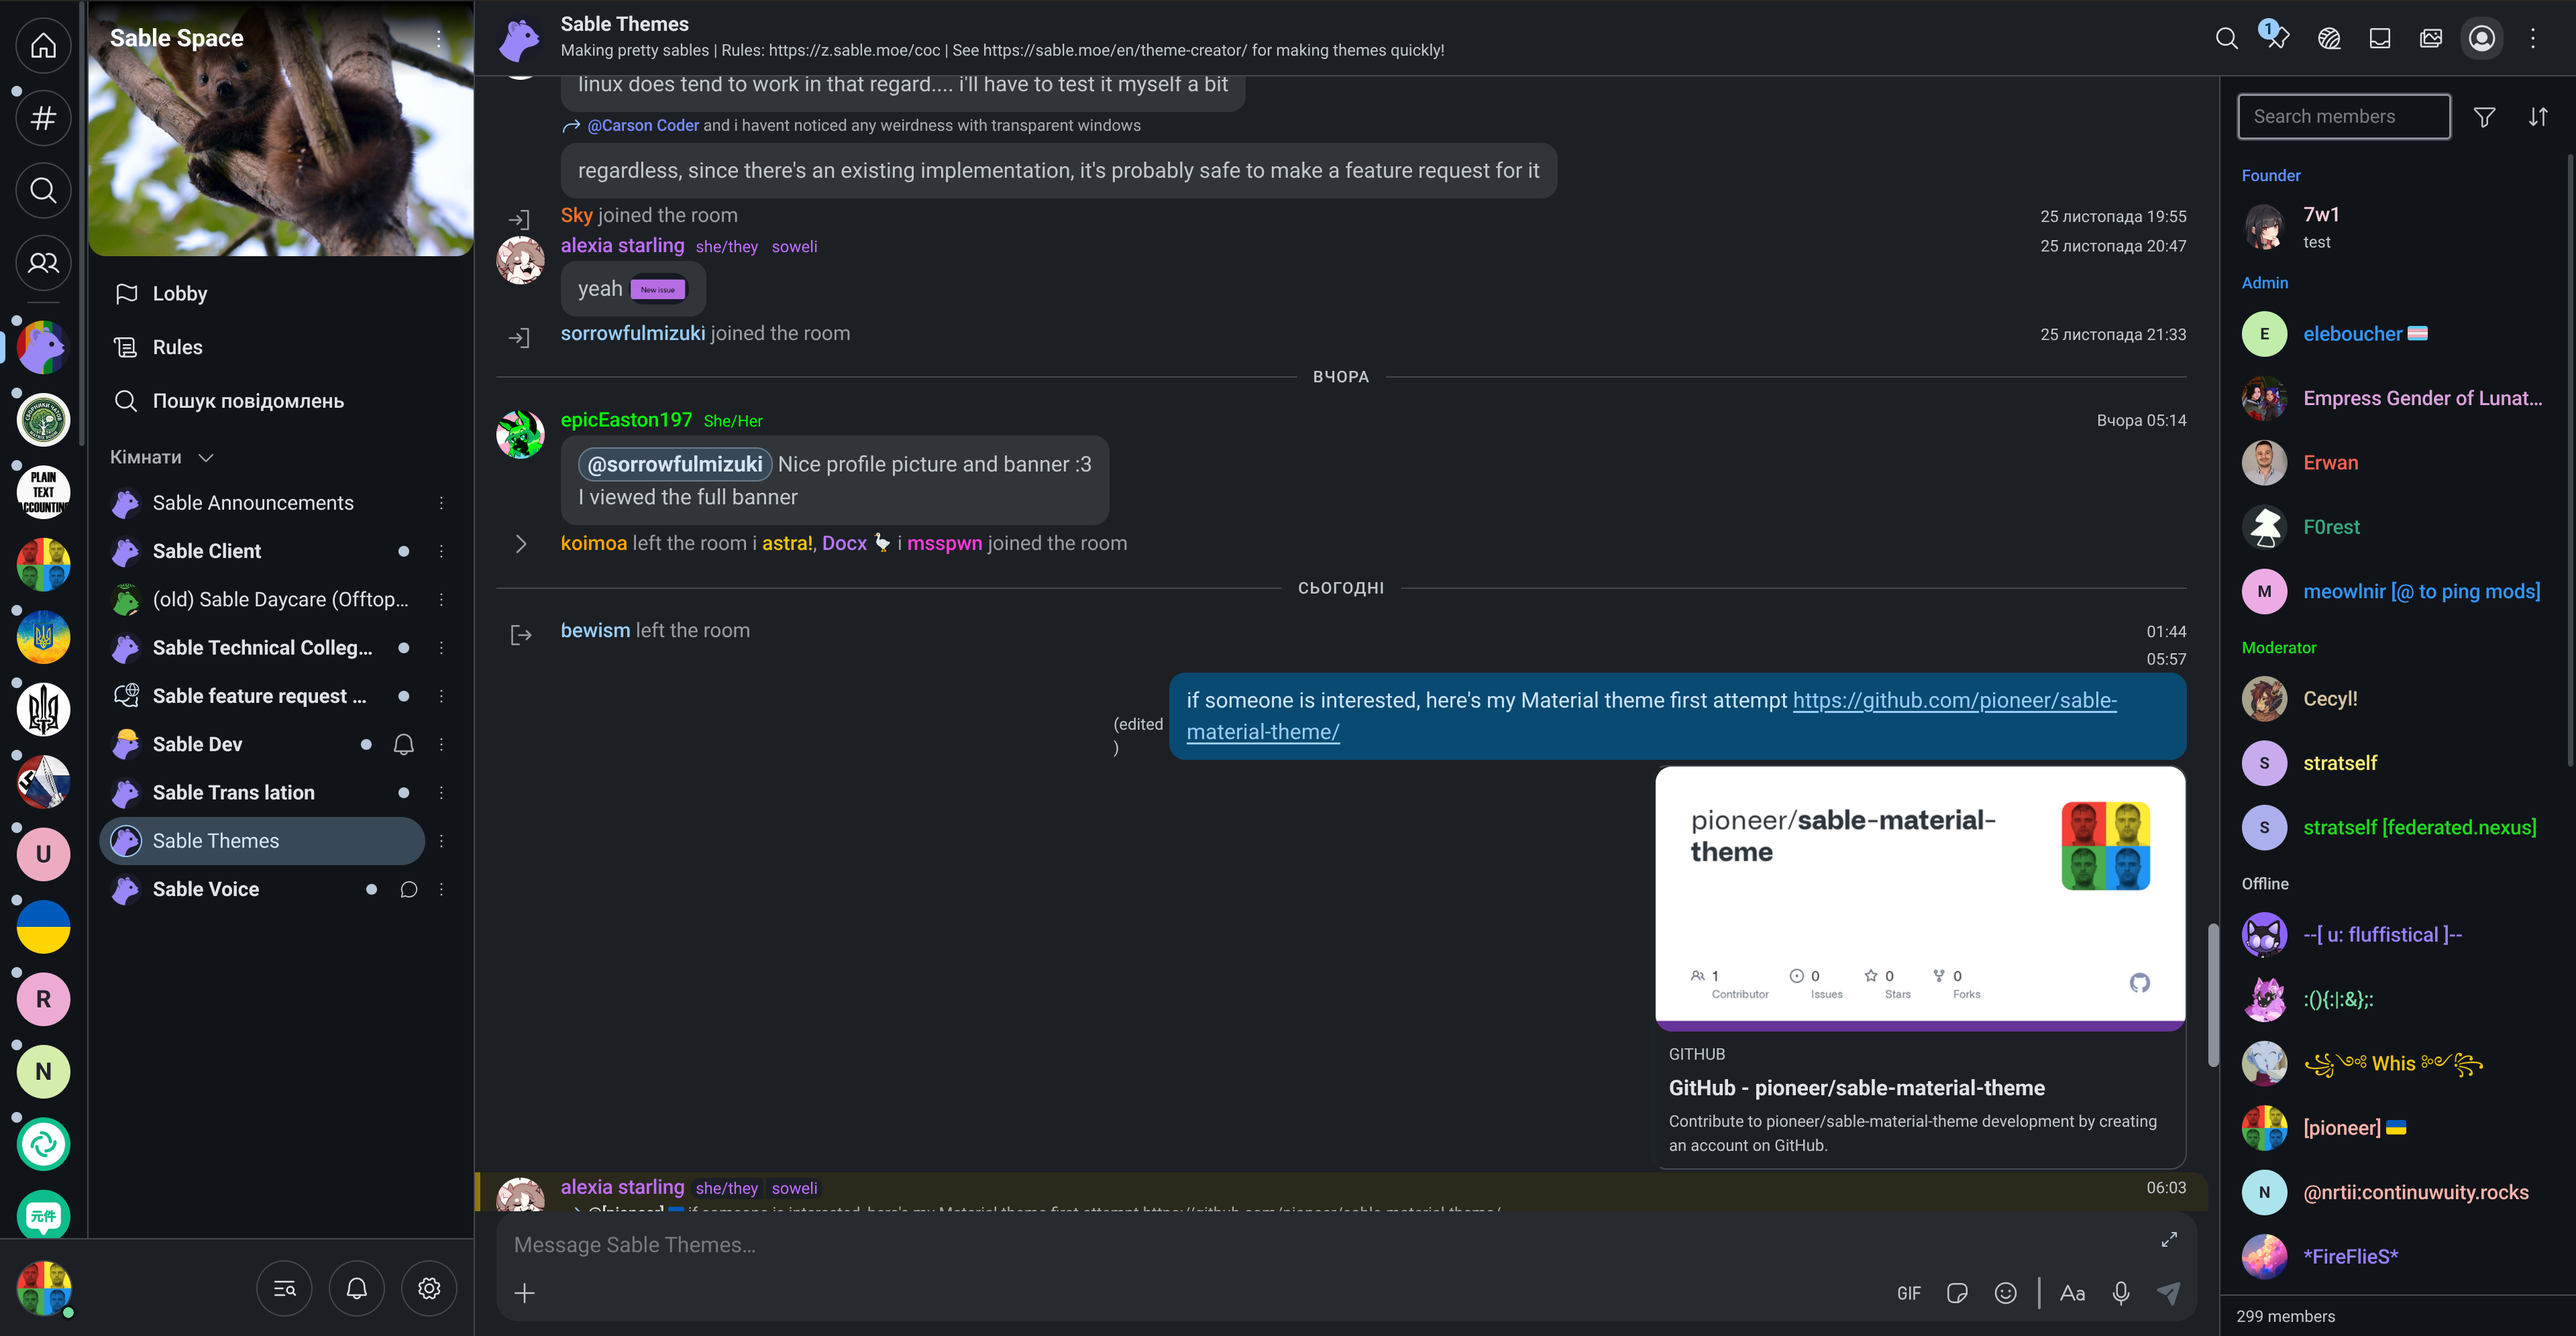
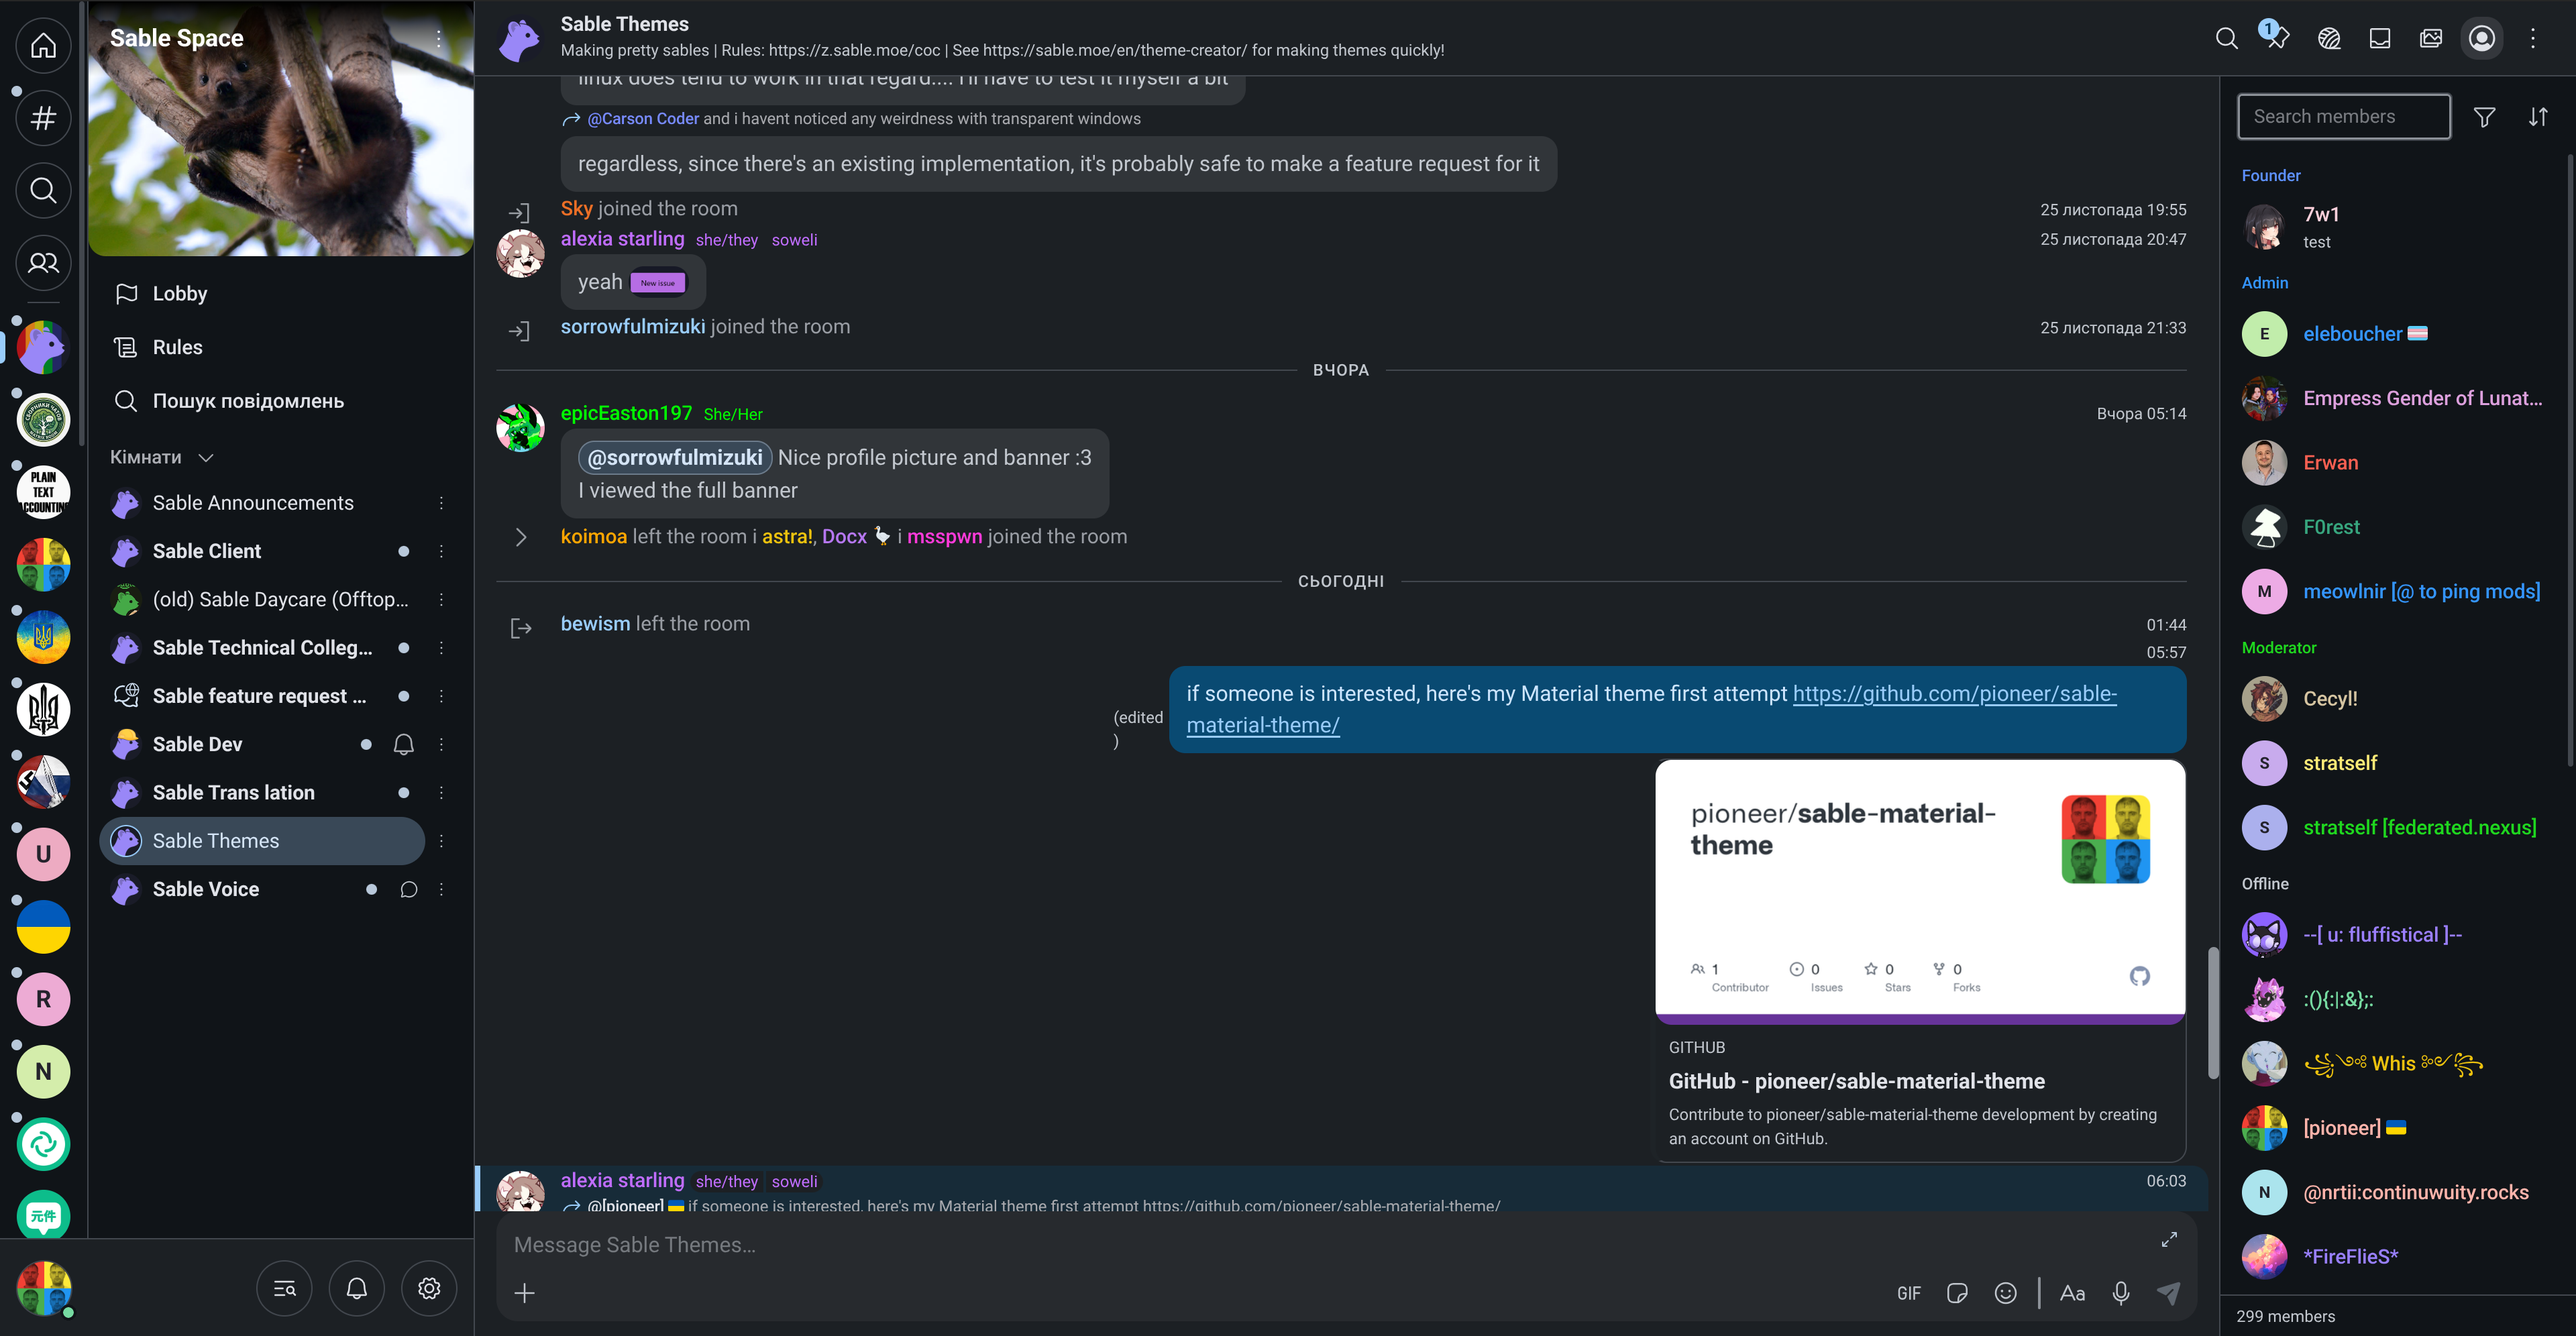
Blue theme corrections

diff --git a/material-blue-dark.sable.css b/material-blue-dark.sable.css
@@ -87,6 +87,8 @@ body.remote-theme {
   --m3-inverse-surface: #e0e2e8;
   --m3-inverse-on-surface: #2d3135;
   --m3-shadow-ambient: rgb(0 0 0 / 30%);
+  --m3-mention-warn-container: var(--warn-container);
+  --m3-mention-warn-container-line: var(--warn-container-line);
 }
 
 /* ---------------------------------------------------------------------------
@@ -272,6 +274,17 @@ body.remote-theme .nav-tab-bottom:is([aria-current='page'], [data-current='true'
 body.remote-theme .nav-tab-bottom:is([aria-current='page'], [data-current='true']):hover {
   background: var(--sec-container);
   color: var(--sec-on-container);
+}
+
+/* Sable uses warning tokens for loud-mention rows; keep warnings in their contents. */
+body.remote-theme .message.mention-loud {
+  --warn-container: var(--primary-container);
+  --warn-container-line: var(--primary-main);
+}
+
+:where(body.remote-theme .message.mention-loud) > * {
+  --warn-container: var(--m3-mention-warn-container);
+  --warn-container-line: var(--m3-mention-warn-container-line);
 }
 
 /* ---------------------------------------------------------------------------

diff --git a/material-blue-light.sable.css b/material-blue-light.sable.css
@@ -87,6 +87,8 @@ body.remote-theme {
   --m3-inverse-surface: #2d3135;
   --m3-inverse-on-surface: #eef1f6;
   --m3-shadow-ambient: rgb(0 0 0 / 15%);
+  --m3-mention-warn-container: var(--warn-container);
+  --m3-mention-warn-container-line: var(--warn-container-line);
 }
 
 /* ---------------------------------------------------------------------------
@@ -272,6 +274,17 @@ body.remote-theme .nav-tab-bottom:is([aria-current='page'], [data-current='true'
 body.remote-theme .nav-tab-bottom:is([aria-current='page'], [data-current='true']):hover {
   background: var(--sec-container);
   color: var(--sec-on-container);
+}
+
+/* Sable uses warning tokens for loud-mention rows; keep warnings in their contents. */
+body.remote-theme .message.mention-loud {
+  --warn-container: var(--primary-container);
+  --warn-container-line: var(--primary-main);
+}
+
+:where(body.remote-theme .message.mention-loud) > * {
+  --warn-container: var(--m3-mention-warn-container);
+  --warn-container-line: var(--m3-mention-warn-container-line);
 }
 
 /* ---------------------------------------------------------------------------
